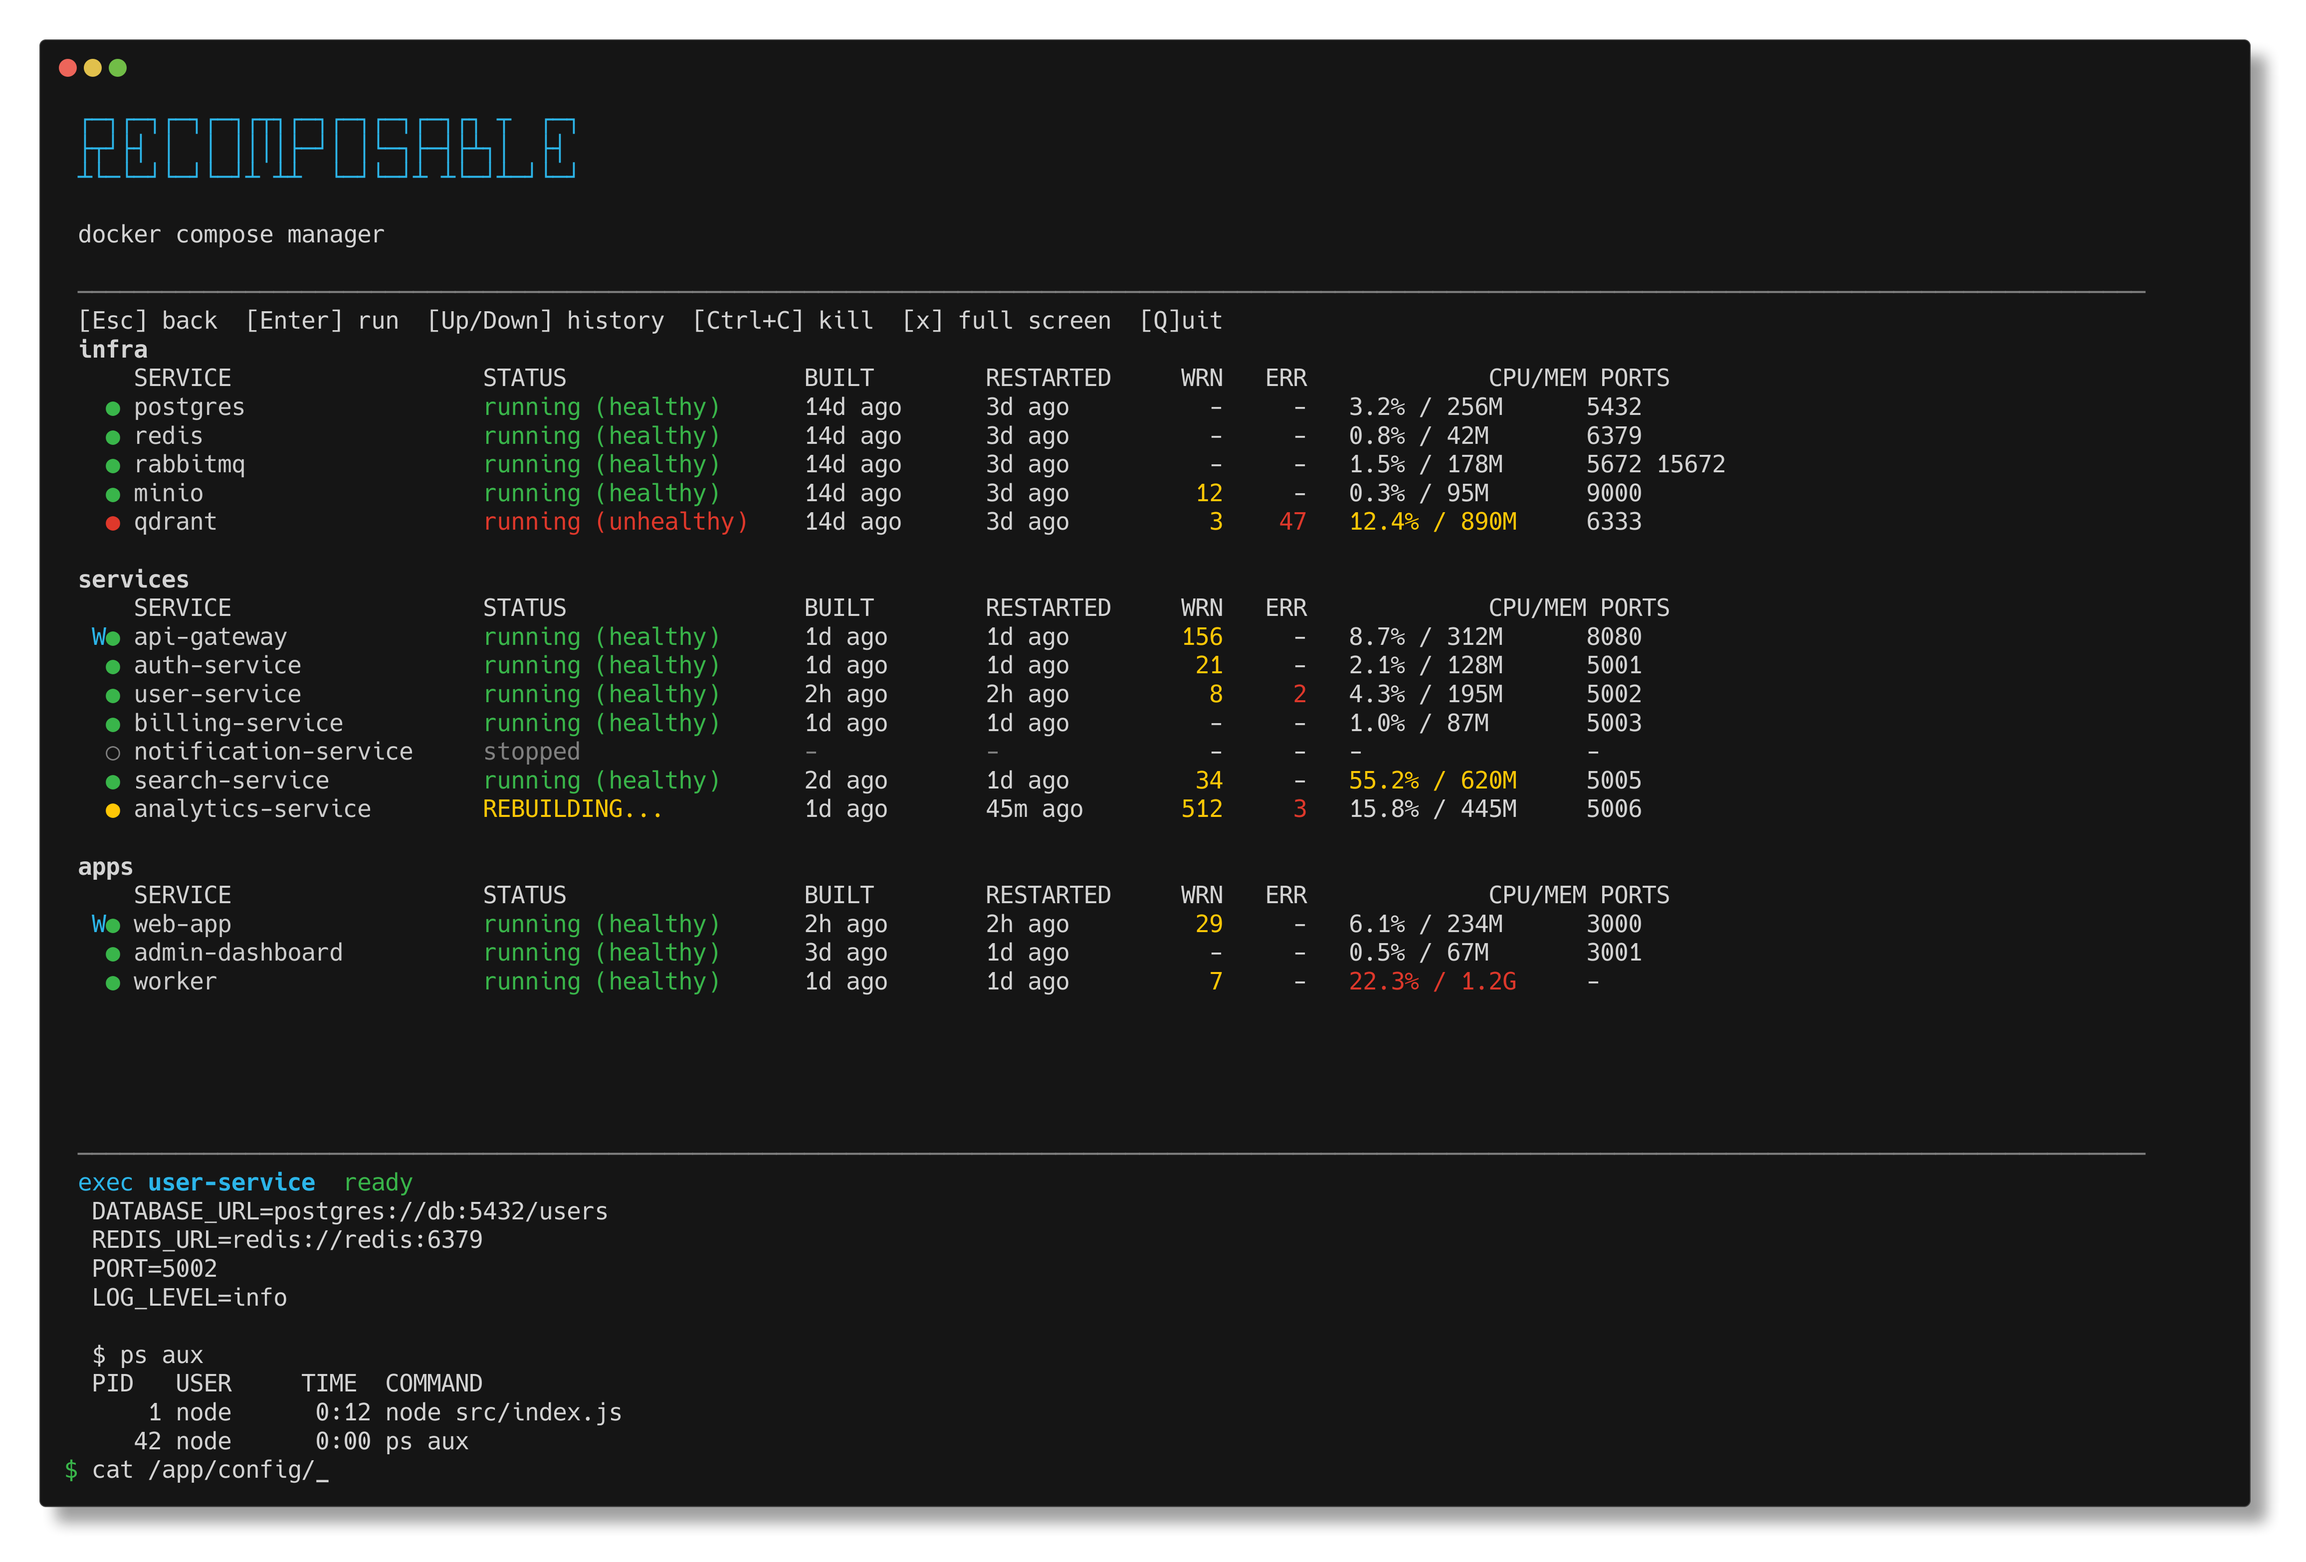
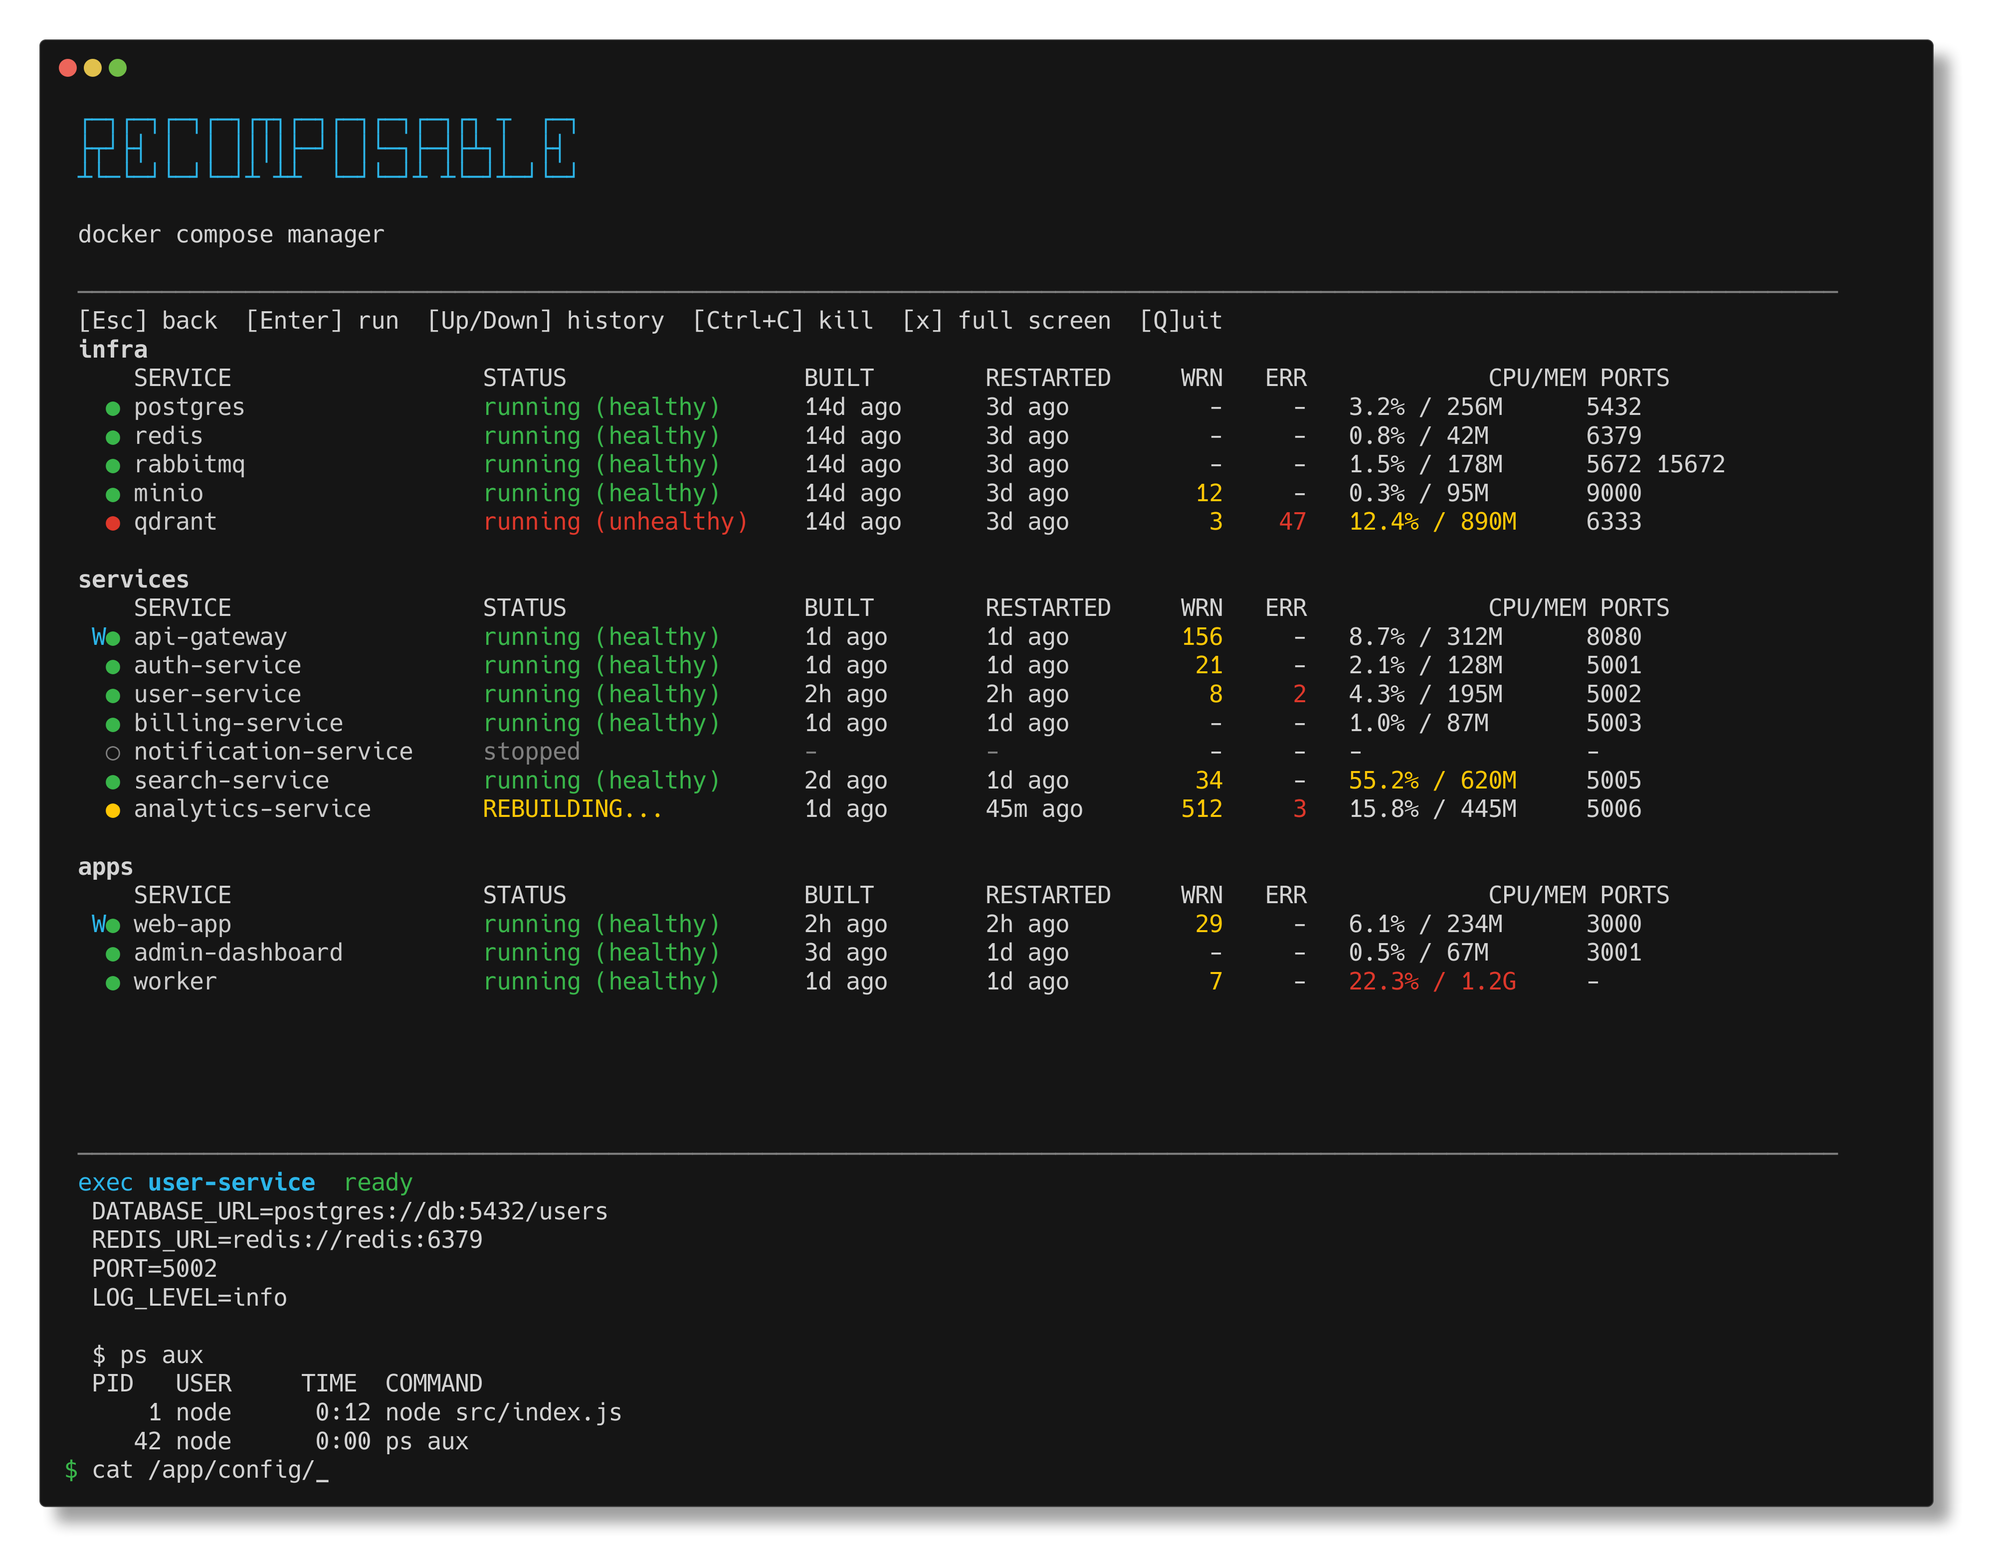
remove blank rows in header

diff --git a/src/lib/renderer.ts b/src/lib/renderer.ts
@@ -20,9 +20,7 @@ const LOGO = [
   ` ${ITALIC}${BOLD}${FG_CYAN}\u250C\u2500\u2510\u250C\u2500\u2510\u250C\u2500\u2510\u250C\u2500\u2510\u250C\u252C\u2510\u250C\u2500\u2510\u250C\u2500\u2510\u250C\u2500\u2510\u250C\u2500\u2510\u250C\u2510 \u252C  \u250C\u2500\u2510${RESET}`,
   ` ${ITALIC}${BOLD}${FG_CYAN}\u251C\u252C\u2518\u251C\u2524 \u2502  \u2502 \u2502\u2502\u2502\u2502\u251C\u2500\u2518\u2502 \u2502\u2514\u2500\u2510\u251C\u2500\u2524\u251C\u2534\u2510\u2502  \u251C\u2524${RESET}`,
   ` ${ITALIC}${BOLD}${FG_CYAN}\u2534\u2514\u2500\u2514\u2500\u2518\u2514\u2500\u2518\u2514\u2500\u2518\u2534 \u2534\u2534  \u2514\u2500\u2518\u2514\u2500\u2518\u2534 \u2534\u2514\u2500\u2518\u2534\u2500\u2518\u2514\u2500\u2518${RESET}`,
-  ``,
   ` ${DIM}docker compose manager${RESET}`,
-  ``,
 ];
 
 export function visLen(str: string): number {

diff --git a/scripts/screenshot.ts b/scripts/screenshot.ts
@@ -6,7 +6,7 @@ import { clearScreen, renderListView, renderLogView, renderExecView } from '../s
 import type { Killable } from '../src/lib/types';
 
 // --- Mock terminal dimensions ---
-const COLS = 150;
+const COLS = 128;
 const ROWS = 48;
 process.stdout.columns = COLS;
 process.stdout.rows = ROWS;
